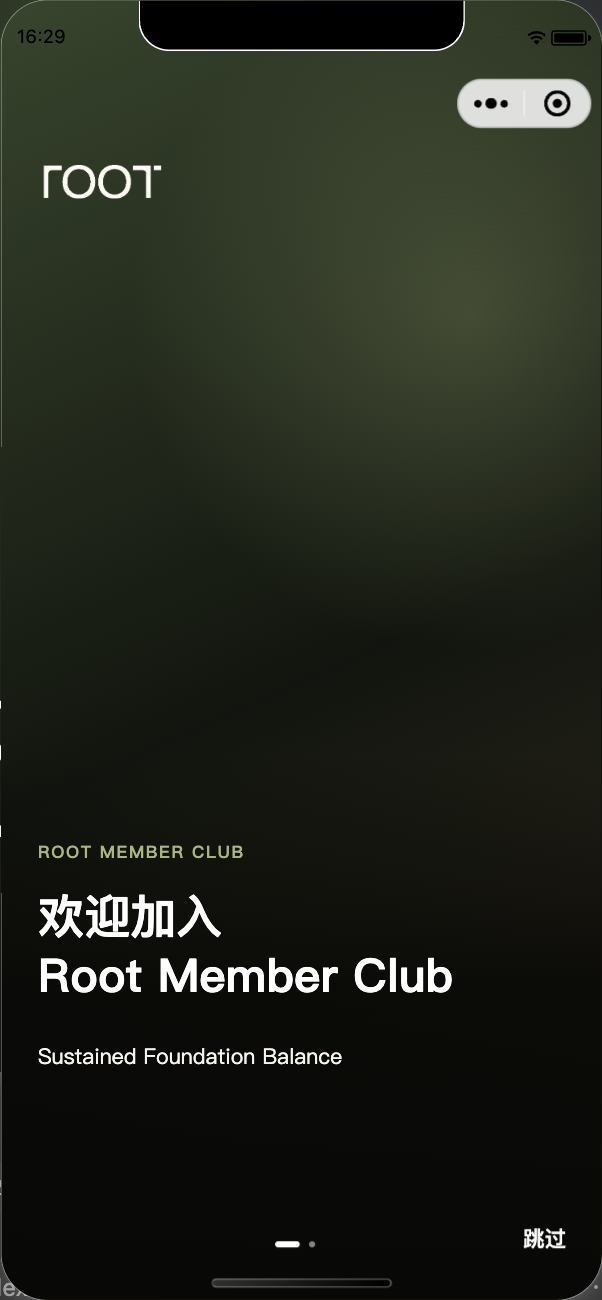
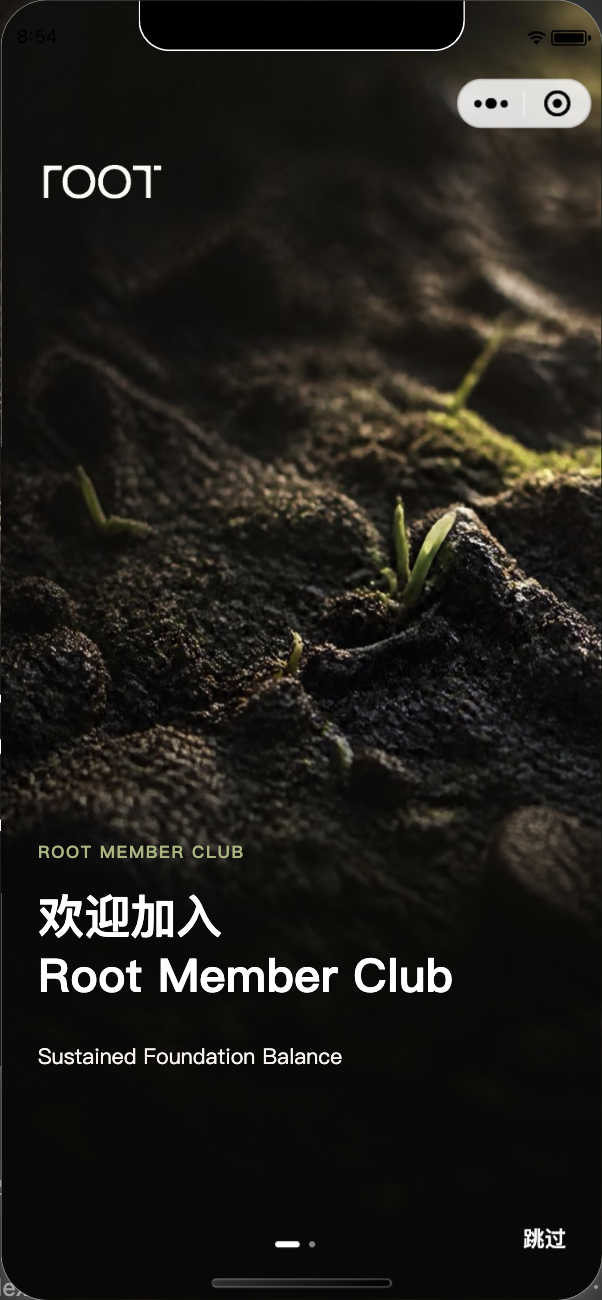
feat: use high-fidelity welcome backgrounds

diff --git a/miniprogram/pages/welcome/index.js b/miniprogram/pages/welcome/index.js
@@ -2,10 +2,10 @@ const { WELCOME_STORAGE_KEY } = require("../../config/formal-launch-routes");
 const { request } = require("../../utils/request");
 const { presentWelcome } = require("../../utils/content-presenter");
 
-const WELCOME_CONTENT_KEY = "ROOT_WELCOME_CONTENT_V1";
+const WELCOME_CONTENT_KEY = "ROOT_WELCOME_CONTENT_V2";
 const DEFAULT_SCREENS = Object.freeze([
-  { slot: 1, copy: "欢迎加入\nRoot Member Club", assetUrl: "", assetState: "DEVELOPMENT_PLACEHOLDER" },
-  { slot: 2, copy: "ROOT的研究源于肠道——\n人体最复杂也最被忽视的系统。\n\n我们不宣称“神奇功效”，\n也不相信“立竿见影”的幻觉。\n当你选择ROOT，不是简单地服用它，\n而是开始与身体重新合作。\n\n真正的健康，是当身体、心智与能量\n重新步入节奏时，你所感受到的安稳、\n轻盈与清晰。\n\n人如草木，根定而生。\nRoot的使命，就是帮你把身体还给身体自己。", assetUrl: "", assetState: "DEVELOPMENT_PLACEHOLDER" },
+  { slot: 1, copy: "欢迎加入\nRoot Member Club", assetUrl: "/static/welcome/welcome-01.jpg", assetState: "BUILTIN_HIGH_FIDELITY" },
+  { slot: 2, copy: "ROOT的研究源于肠道——\n人体最复杂也最被忽视的系统。\n\n我们不宣称“神奇功效”，\n也不相信“立竿见影”的幻觉。\n当你选择ROOT，不是简单地服用它，\n而是开始与身体重新合作。\n\n真正的健康，是当身体、心智与能量\n重新步入节奏时，你所感受到的安稳、\n轻盈与清晰。\n\n人如草木，根定而生。\nRoot的使命，就是帮你把身体还给身体自己。", assetUrl: "/static/welcome/welcome-02.jpg", assetState: "BUILTIN_HIGH_FIDELITY" },
 ]);
 
 Page({

diff --git a/scripts/formal-launch-local-evidence.js b/scripts/formal-launch-local-evidence.js
@@ -216,8 +216,9 @@ function beforeRefsFor(screen, review) {
 const CONTROLLED_REVIEWS = Object.freeze({
   welcome: {
     screenshotRefs: miniCapture(["01-welcome-01.png", "01-welcome-02.png"]),
-    captureClass: "LOCAL_SIMULATOR_DEVELOPMENT_PLACEHOLDER",
-    differences: ["正式摄影背景尚未进入代码库，本次只验收安全区、文案、轮播指示与跳过按钮。"],
+    captureClass: "LOCAL_SIMULATOR_HIGH_FIDELITY_ASSET",
+    capturedAt: "2026-08-05T00:58:00.000Z",
+    differences: ["已接入 Ardot 高保真欢迎页背景；正式上线前仍需用微信真机确认不同屏幕比例下的裁切与文字可读性。"],
   },
   "home-and-shared-detail": {
     screenshotRefs: miniCapture(["02-home.png", "02-content-detail.png"]),
@@ -412,8 +413,8 @@ function visualReview(generatedAt) {
         boardNodes: screen.boardNodes,
         status: directlyCompared ? "REVIEWED_WITH_OPEN_DIFFERENCES" : "CAPTURED_REFERENCE_EXPORT_BLOCKED",
         ownerRole: "ENGINEERING_AND_QA",
-        capturedAt: CONTROLLED_CAPTURED_AT,
-        reviewedAt: directlyCompared ? CONTROLLED_CAPTURED_AT : null,
+        capturedAt: review.capturedAt || CONTROLLED_CAPTURED_AT,
+        reviewedAt: directlyCompared ? (review.capturedAt || CONTROLLED_CAPTURED_AT) : null,
         viewport: screen.viewport,
         captureClass: review.captureClass,
         referenceStatus: directlyCompared ? "ARDOT_REFERENCE_EXPORTED" : "ARDOT_LIVE_READBACK_CONFIRMED_EXPORT_TIMEOUT",

diff --git a/miniprogram/scripts/visual-foundation.test.js b/miniprogram/scripts/visual-foundation.test.js
@@ -17,6 +17,8 @@ function assertFiles(relativePaths) {
 
 assertFiles([
   "styles/tokens.wxss",
+  "static/welcome/welcome-01.jpg",
+  "static/welcome/welcome-02.jpg",
   "components/root-wordmark/index.js",
   "components/root-wordmark/index.json",
   "components/root-wordmark/index.wxml",
@@ -59,6 +61,10 @@ const welcomeScript = read("pages/welcome/index.js");
 const welcomeSource = `${welcomeWxml}\n${welcomeScript}`;
 assert.match(welcomeWxml, /<immersive-header tone="light"/);
 assert.match(welcomeWxml, /data-release-asset="\{\{screens\[0\]\.assetState\}\}"/);
+assert.match(welcomeScript, /\/static\/welcome\/welcome-01\.jpg/);
+assert.match(welcomeScript, /\/static\/welcome\/welcome-02\.jpg/);
+assert.match(welcomeScript, /BUILTIN_HIGH_FIDELITY/);
+assert.doesNotMatch(welcomeScript, /DEVELOPMENT_PLACEHOLDER/);
 assert.match(welcomeSource, /欢迎加入/);
 assert.match(welcomeSource, /Root Member Club/);
 assert.match(welcomeSource, /Sustained Foundation Balance/);

diff --git a/docs/evidence/performance-r0/regression-review.md b/docs/evidence/performance-r0/regression-review.md
@@ -3,4 +3,4 @@
 - 当前证据：本地源码包体估算，状态 PASS。
 - 正式资格：否；仍缺微信构建产物、iOS/Android 真机、弱网、30 次样本、P75/P95、帧率和内存。
 - 相对基线规则：增长 5% 预警，增长 10% 阻断；没有已批准正式基线时不得用本地旧数据替代。
-- 当前主包：225791 bytes；总包：329806 bytes。
+- 当前主包：456016 bytes；总包：560031 bytes。
